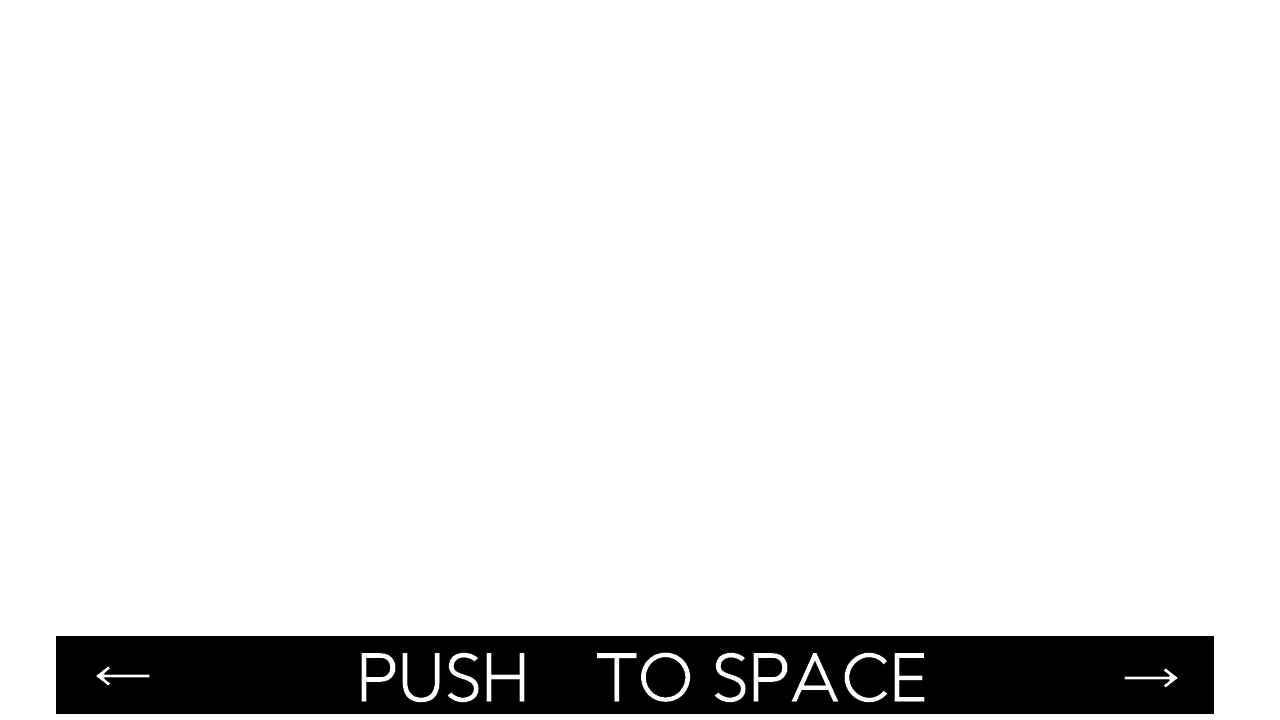
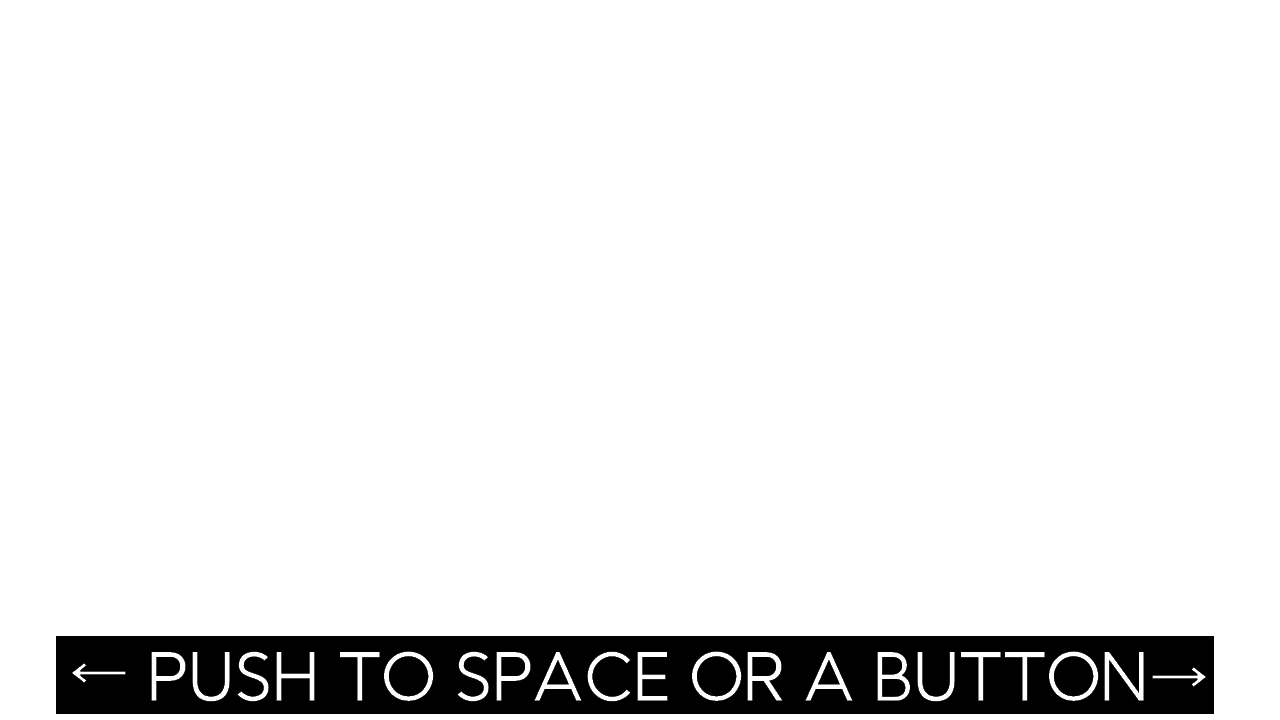
a

Changed region(s): [[0.25, 0.8861, 0.9375, 0.9778], [0.0625, 0.8861, 0.25, 0.9778]]

diff --git a/Scene/TitleScene.cpp b/Scene/TitleScene.cpp
@@ -8,6 +8,7 @@
 #include "StageSelectScene.h"
 #include <numbers>
 static SoundData bgmTitle_;
+static bool prevAButton_ = false;
 
 static SoundData se_;
 void TitleScene::Initialize()
@@ -88,14 +89,36 @@ void TitleScene::Initialize()
     bgmTitle_ = SoundManager::GetInstance()->SoundLoadFile("resources/titleSceneBGM.mp3");
     se_ = SoundManager::GetInstance()->SoundLoadFile("resources/maou_se_system49.mp3");
     SoundManager::GetInstance()->PlayBGM(bgmTitle_, 0.5f);
+
+    AAA = new Sprite();
+    AAA->Initialize(SpriteManager::GetInstance(), "resources/SAPCEOSE.png");
+    AAA->SetPosition({ 0.0f, 0.0f });
 }
 
 void TitleScene::Update()
 {
-    if (Input::GetInstance()->IsKeyTrigger(DIK_SPACE)){
-        // まずはフェードアウト開始！
-        FadeManager::GetInstance()->StartFadeOut(1.0f);
+    AAA->Update();
 
+    bool aButtonTrigger = false;
+
+    // ===== gamepad (Aボタン) =====
+    XINPUT_STATE st {};
+    if (XInputGetState(0, &st) == ERROR_SUCCESS) {
+
+        bool nowAButton = (st.Gamepad.wButtons & XINPUT_GAMEPAD_A) != 0;
+
+        if (nowAButton && !prevAButton_) {
+            aButtonTrigger = true; // 押した瞬間
+        }
+
+        prevAButton_ = nowAButton;
+    } else {
+        prevAButton_ = false;
+    }
+    // ===== 決定（Aボタン or SPACE） =====
+    if (aButtonTrigger || Input::GetInstance()->IsKeyTrigger(DIK_SPACE)) {
+
+        FadeManager::GetInstance()->StartFadeOut(1.0f);
         SoundManager::GetInstance()->PlaySE(se_, 1.0f);
     }
 
@@ -107,25 +130,18 @@ void TitleScene::Update()
         SoundManager::GetInstance()->StopBGMAll();
     }
 
-    // titleModel->Update();
     camera_->Update();
 
-    // 外殻
     outShellModel_->Update();
     homeModel_->Update();
     railModel_->Update();
     doroso_->Update();
-    // 外殻
-    outShellModel_->Update();
-    homeModel_->Update();
-    railModel_->Update();
 
-    // drone
-    drone_->Update();
     if (drone_) {
         drone_->SetTranslate(dronePos);
         drone_->SetRotate(droneRot);
         drone_->SetScale(droneScale);
+        drone_->Update();
     }
 }
 
@@ -133,6 +149,7 @@ void TitleScene::Draw2D()
 {
     SpriteManager::GetInstance()->PreDraw();
     FadeManager::GetInstance()->Draw();
+    AAA->Draw();
 }
 
 void TitleScene::Draw3D()
@@ -290,5 +307,6 @@ void TitleScene::Finalize()
     delete homeModel_;
     delete railModel_;
     delete drone_;
+    delete AAA;
     SoundManager::GetInstance()->StopBGMAll();
 }

diff --git a/Scene/StageSelectScene.cpp b/Scene/StageSelectScene.cpp
@@ -22,6 +22,9 @@
 
 #include <cctype> // isdigit
 #include <cstdlib> // strtol
+static bool prevAButton_ = false;
+static bool prevDpadLeft_  = false;
+static bool prevDpadRight_ = false;
 
 static SoundData se_;
 // -------------------- wide -> utf8 --------------------
@@ -372,14 +375,34 @@ void StageSelectScene::Update()
     }
     titleSprite_->Update();
     auto fadeStatus = FadeManager::GetInstance()->GetStatus();
-    if (input.IsKeyTrigger(DIK_SPACE)) {
+    bool aButtonTrigger = false;
+
+    // ===== gamepad (Aボタン) =====
+    XINPUT_STATE st {};
+    if (XInputGetState(0, &st) == ERROR_SUCCESS) {
+
+        bool nowAButton = (st.Gamepad.wButtons & XINPUT_GAMEPAD_A) != 0;
+
+        if (nowAButton && !prevAButton_) {
+            aButtonTrigger = true; // 押した瞬間
+        }
+
+        prevAButton_ = nowAButton;
+    } else {
+        prevAButton_ = false;
+    }
+
+    // ===== 決定（A or SPACE） =====
+    if (aButtonTrigger || input.IsKeyTrigger(DIK_SPACE)) {
+
         if (fadeStatus == FadeManager::Status::FadeInFinished || fadeStatus == FadeManager::Status::None) {
+
             Decide_();
             SoundManager::GetInstance()->PlaySE(se_, 1.0f);
-            // フェードアウト開始！
             FadeManager::GetInstance()->StartFadeOut(1.0f);
         }
     }
+
 
     FadeManager::GetInstance()->Update();
 

diff --git a/Scene/TitleScene.h b/Scene/TitleScene.h
@@ -4,7 +4,7 @@
 #include "Camera.h"
 #include "SceneManager.h"
 #include <memory>
-
+#include"../2D/Sprite.h"
 #include "../audio/SoundManager.h"  
 class TitleScene : public BaseScene {
 public:
@@ -35,5 +35,5 @@ private:
     Vector3 scale1 = {};
 
    
-
+    Sprite* AAA = nullptr;
 };
